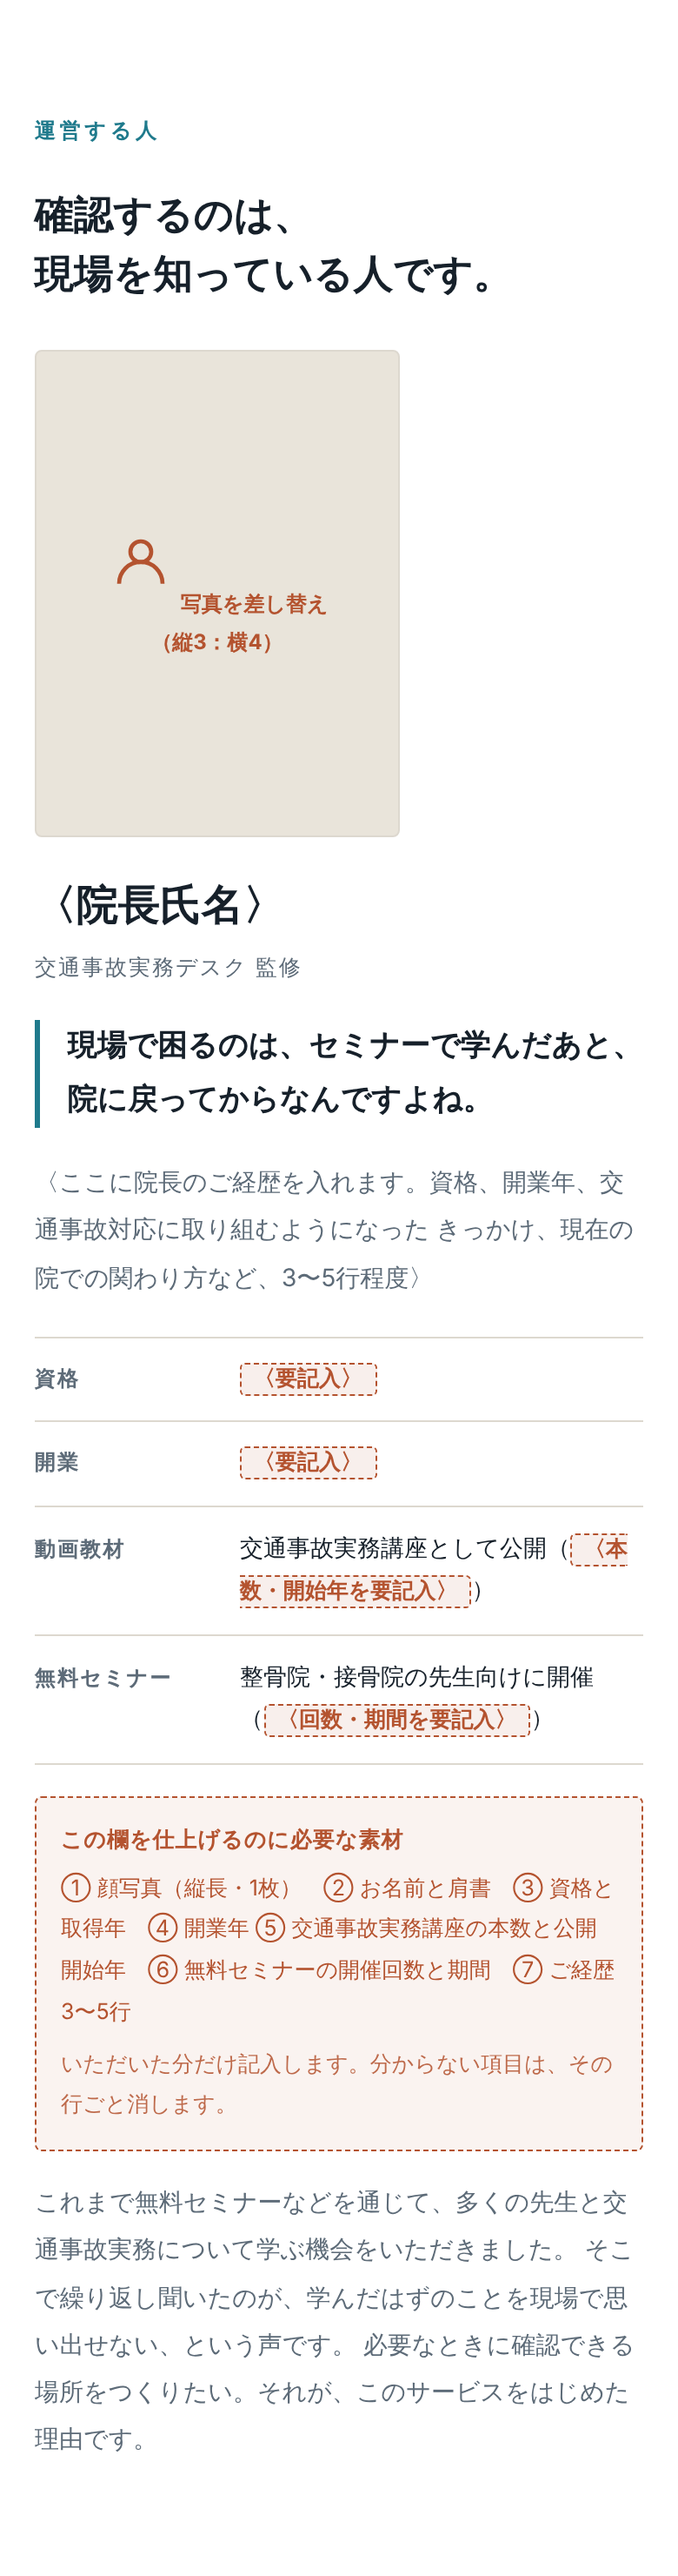
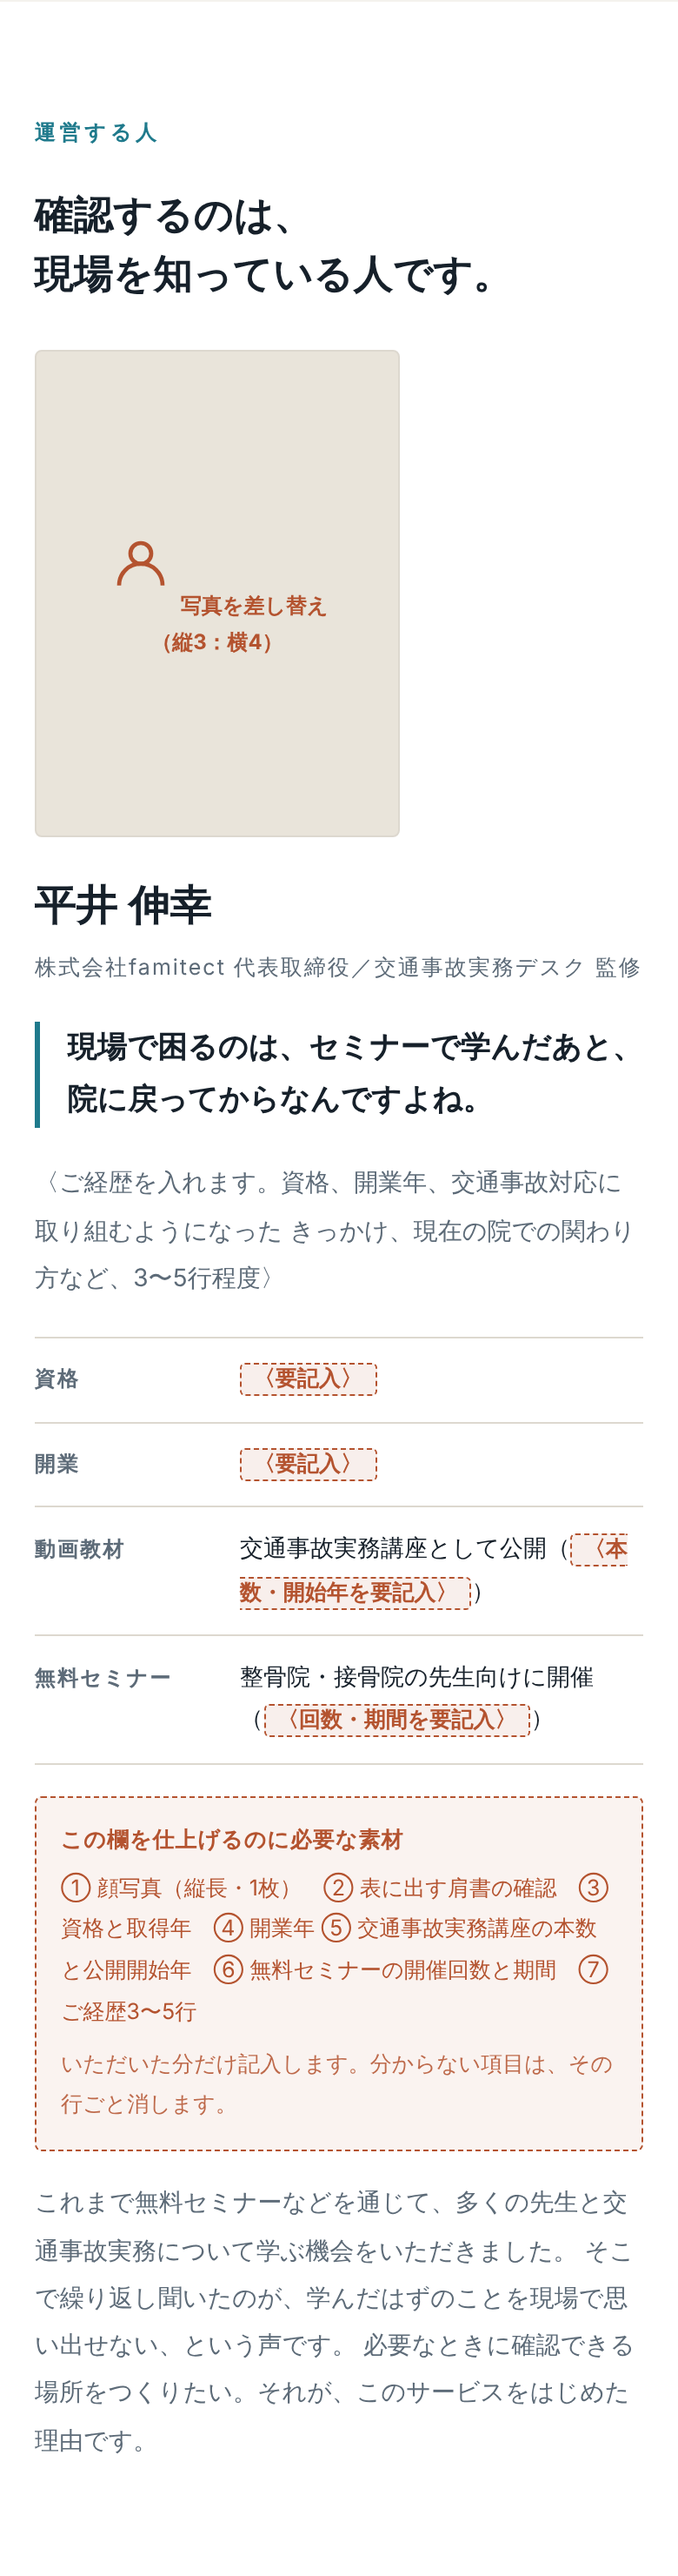
design+docs: 確認者の肩書を「院長」から「代表」に変えた
「院長」は院の中の呼び方で、外の先生が読むと自分の院の院長かと
読まれる可能性がある。特商法ページの肩書と一致させた。

- 回答の確認表示を「院長 確認済み」→「代表 確認済み」
  （株式会社famitect 代表取締役／確認日）
- 運営する人の節を、氏名 平井 伸幸、肩書
  「株式会社famitect 代表取締役／交通事故実務デスク 監修」に
- 素材リストの②を「お名前と肩書」→「表に出す肩書の確認」に変更
- docs/badge-policy.md に、会社側の肩書を使う理由と、
  確認者が代表取締役本人でない場合はこの表示を使わないことを追記

本体・決済は未変更。

Claude-Session: https://claude.ai/code/session_01XxX8KomyP5X86hhJgAnHyP

diff --git a/jiko-desk/docs/badge-policy.md b/jiko-desk/docs/badge-policy.md
@@ -8,7 +8,19 @@
 | 段 | 出すもの | 例 |
 |---|---|---|
 | 1段目 | **何にもとづく回答か**（出どころ） | 行政書士の講座にもとづく回答です |
-| 2段目 | **誰がこの文章を確認したか**（行為） | 院長 確認済み／確認日 2026-10-02 |
+| 2段目 | **誰がこの文章を確認したか**（行為） | 代表 確認済み／確認日 2026-10-02 |
+
+### 肩書は「院長」ではなく、会社側の肩書を使う
+
+「院長」は院の中の呼び方で、外の先生が読むと「どこの院長か」が分からない。
+自分の院の院長のことかと読まれる可能性もある。
+
+**特商法ページに載っている肩書と一致させる。** いまは
+「株式会社famitect 代表取締役　平井 伸幸」なので、表示は **「代表 確認済み」** とする。
+会員が特商法ページを見れば、誰が確認したのかを自分で確かめられる。
+
+※ 確認している人が代表取締役本人でない場合は、この表示は使えない。
+　 その場合はその方のお名前と肩書を出すこと。
 
 お名前とご紹介は、**掲載のご同意をいただいた先生から順に**2段目に足す。
 同意がない間は資格と確認日だけを出す。名前を伏せることは嘘ではない。
